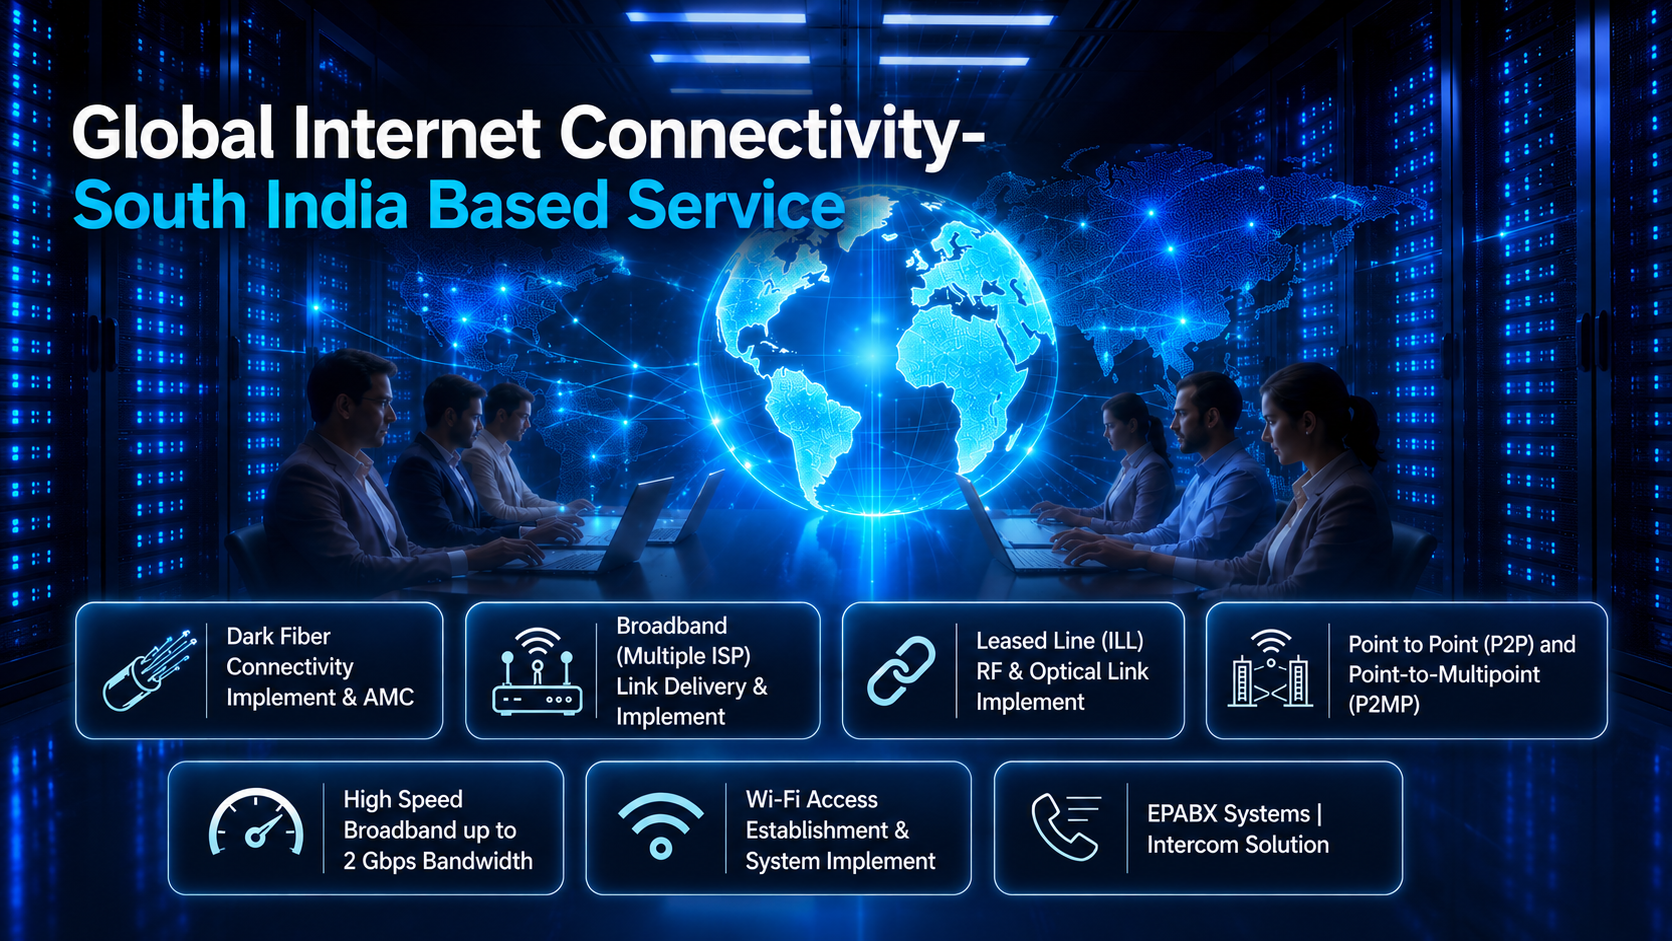
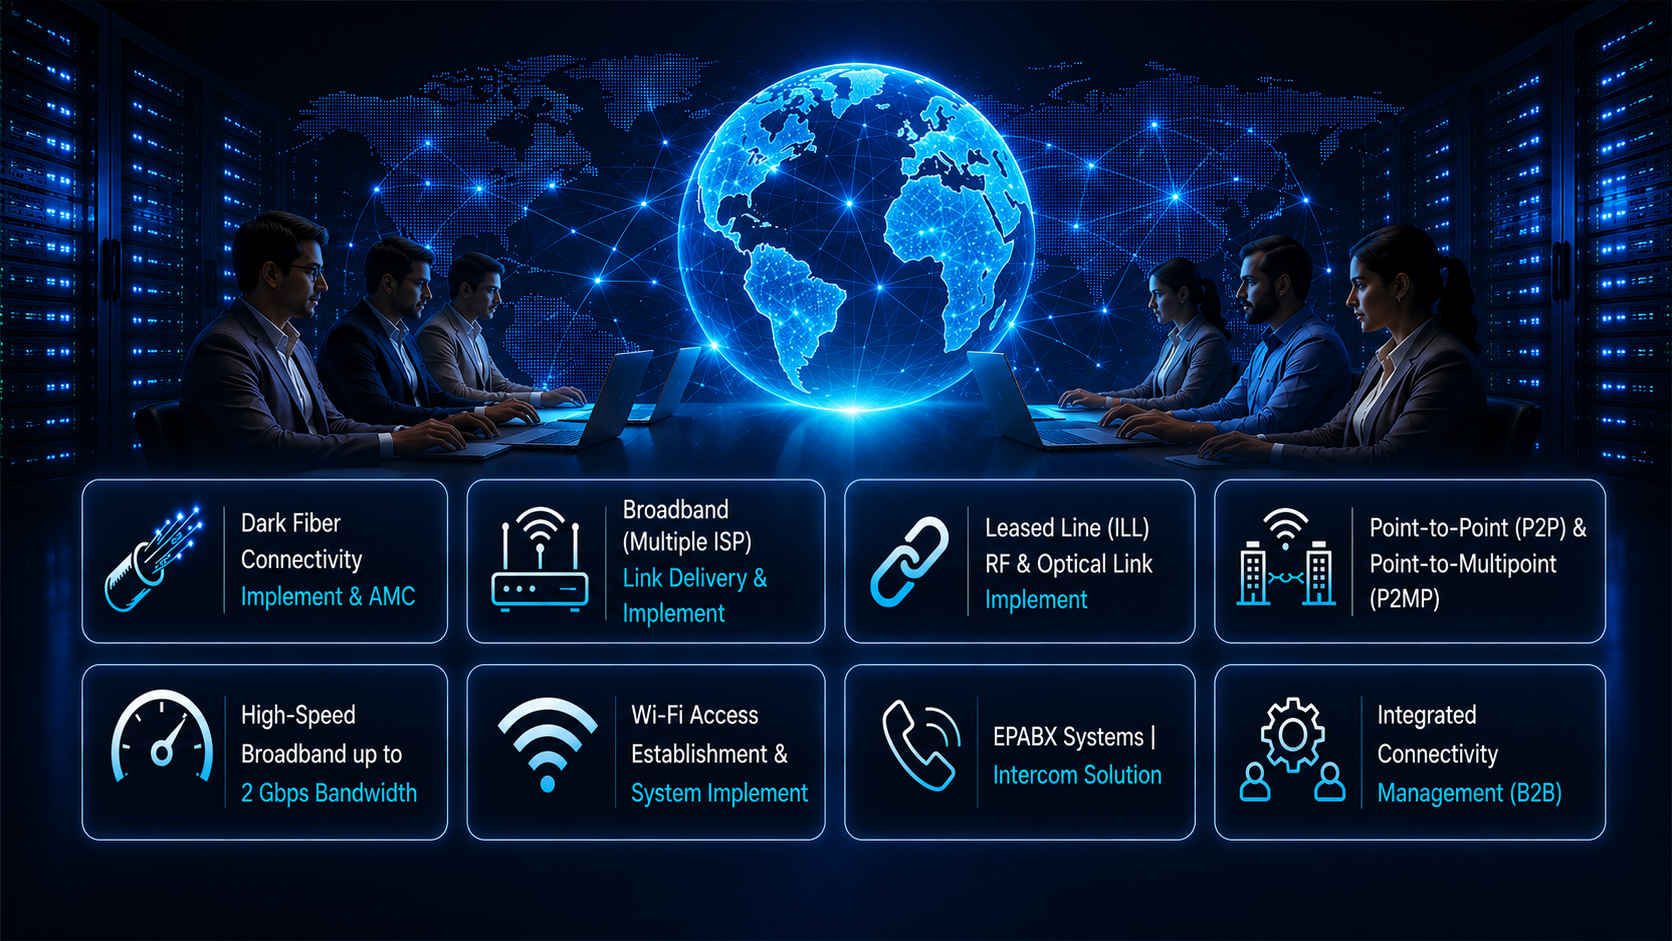
update: carousel image and home page refinements

diff --git a/src/pages/Home.jsx b/src/pages/Home.jsx
@@ -1,126 +1,4 @@
 
-// // src/pages/Home.jsx
-// import React from "react";
-// import {
-//   FaWifi,
-//   FaCogs,
-//   FaRecycle,
-//   FaBriefcase,
-//   FaDoorOpen,
-//   FaHome,
-//   FaWhatsapp,
-//   FaPhoneAlt,
-// } from "react-icons/fa";
-
-// import "../Home.css";
-
-// const Home = ({ setCurrentPage }) => {
-//   const companies = [
-//     { title: "Connect Integrated Telecom Services", desc: "Advanced telecommunication solutions connecting the world.", icon: <FaWifi />, page: "telecom" },
-//     { title: "Vibes Business solution", desc: "Comprehensive business growth strategies.", icon: <FaBriefcase />, page: "business" },
-//     { title: "Connect Engineering and Infrastructure", desc: "Building innovation with precision and excellence.", icon: <FaCogs />, page: "engineering" },
-//     { title: "Suraksha Doors and Windows", desc: "Premium, secure, and aesthetic home protection systems.", icon: <FaDoorOpen />, page: "suraksha" },
-//     { title: "Connect Home Renovations", desc: "Transforming living spaces with modern design.", icon: <FaHome />, page: "renovations" },
-//   ];
-
-//   return (
-//     <div className="connect-container">
-//       {/* WhatsApp Icon - Left */}
-//       <a
-//         href="https://wa.me/919946229098"
-//         target="_blank"
-//         rel="noreferrer"
-//         className="floating-icon left-icon icon-whatsapp"
-//         aria-label="WhatsApp"
-//       >
-//         <FaWhatsapp size={30} />
-//       </a>
-
-//       {/* Call Icon - Right */}
-//       <a
-//         href="tel:+919946229098"
-//         className="floating-icon right-icon call-icon"
-//         aria-label="Call"
-//       >
-//         <FaPhoneAlt size={28} />
-//       </a>
-
-//       {/* Cards */}
-//       <div className="cards-grid" data-testid="cards-grid">
-//         {companies.map((item, index) => (
-//           <div
-//             key={index}
-//             className="connect-card"
-//             role="button"
-//             tabIndex={0}
-//             onClick={() => {
-//               console.log("card clicked:", item.page);
-//               setCurrentPage(item.page);
-//             }}
-//             onKeyDown={(e) => {
-//               if (e.key === "Enter" || e.key === " ") {
-//                 console.log("card activated by keyboard:", item.page);
-//                 setCurrentPage(item.page);
-//               }
-//             }}
-//           >
-//             <div className="card-icon">{item.icon}</div>
-//             <h2>{item.title}</h2>
-//             <p>{item.desc}</p>
-//           </div>
-//         ))}
-//       </div>
-//     </div>
-//   );
-// };
-
-// export default Home;
-
-
-
-// // src/pages/Home.jsx
-// import React from "react";
-// import {
-//   FaWifi,
-//   FaCogs,
-//   FaRecycle,
-//   FaBriefcase,
-//   FaDoorOpen,
-//   FaHome,
-// } from "react-icons/fa";
-// import "../Home.css";
-
-// const Home = ({ setCurrentPage }) => {
-//   const companies = [
-//     { title: "Connect Integrated Telecom Services", icon: <FaWifi />, page: "telecom" },
-//     { title: "Vibes Business Solution", icon: <FaBriefcase />, page: "business" },
-//     { title: "Connect Engineering and Infrastructure", icon: <FaCogs />, page: "engineering" },
-//     { title: "Suraksha Doors and Windows", icon: <FaDoorOpen />, page: "suraksha" },
-//     { title: "Connect Home Renovations", icon: <FaHome />, page: "renovations" },
-//   ];
-
-//   return (
-//     <div className="connect-container">
-//       <div className="cards-grid">
-//         {companies.map((item, index) => (
-//           <div
-//             key={index}
-//             className="connect-card"
-//             onClick={() => setCurrentPage(item.page)}
-//           >
-//             <div className="card-icon">{item.icon}</div>
-//             <h2>{item.title}</h2>
-//           </div>
-//         ))}
-//       </div>
-//     </div>
-//   );
-// };
-
-// export default Home;
-
-
-
 
 // src/pages/Home.jsx
 import React from "react";

diff --git a/src/components/layout/Carousel.jsx b/src/components/layout/Carousel.jsx
@@ -2,9 +2,9 @@ import React, { useEffect, useState } from "react";
 import "./Carousel.css";
 
 const images = [
-  process.env.PUBLIC_URL + "/carusal-img-1.jpeg",
+  process.env.PUBLIC_URL + "/carusal-img-3.png",
   process.env.PUBLIC_URL + "/carusal-img-2.png",
-  process.env.PUBLIC_URL + "/carusal-img-3.jpeg",
+  process.env.PUBLIC_URL + "/carusal-img-1.jpeg",
   process.env.PUBLIC_URL + "/carusal-img-4.png",
   process.env.PUBLIC_URL + "/carusal-img-5.jpeg",
 ];
